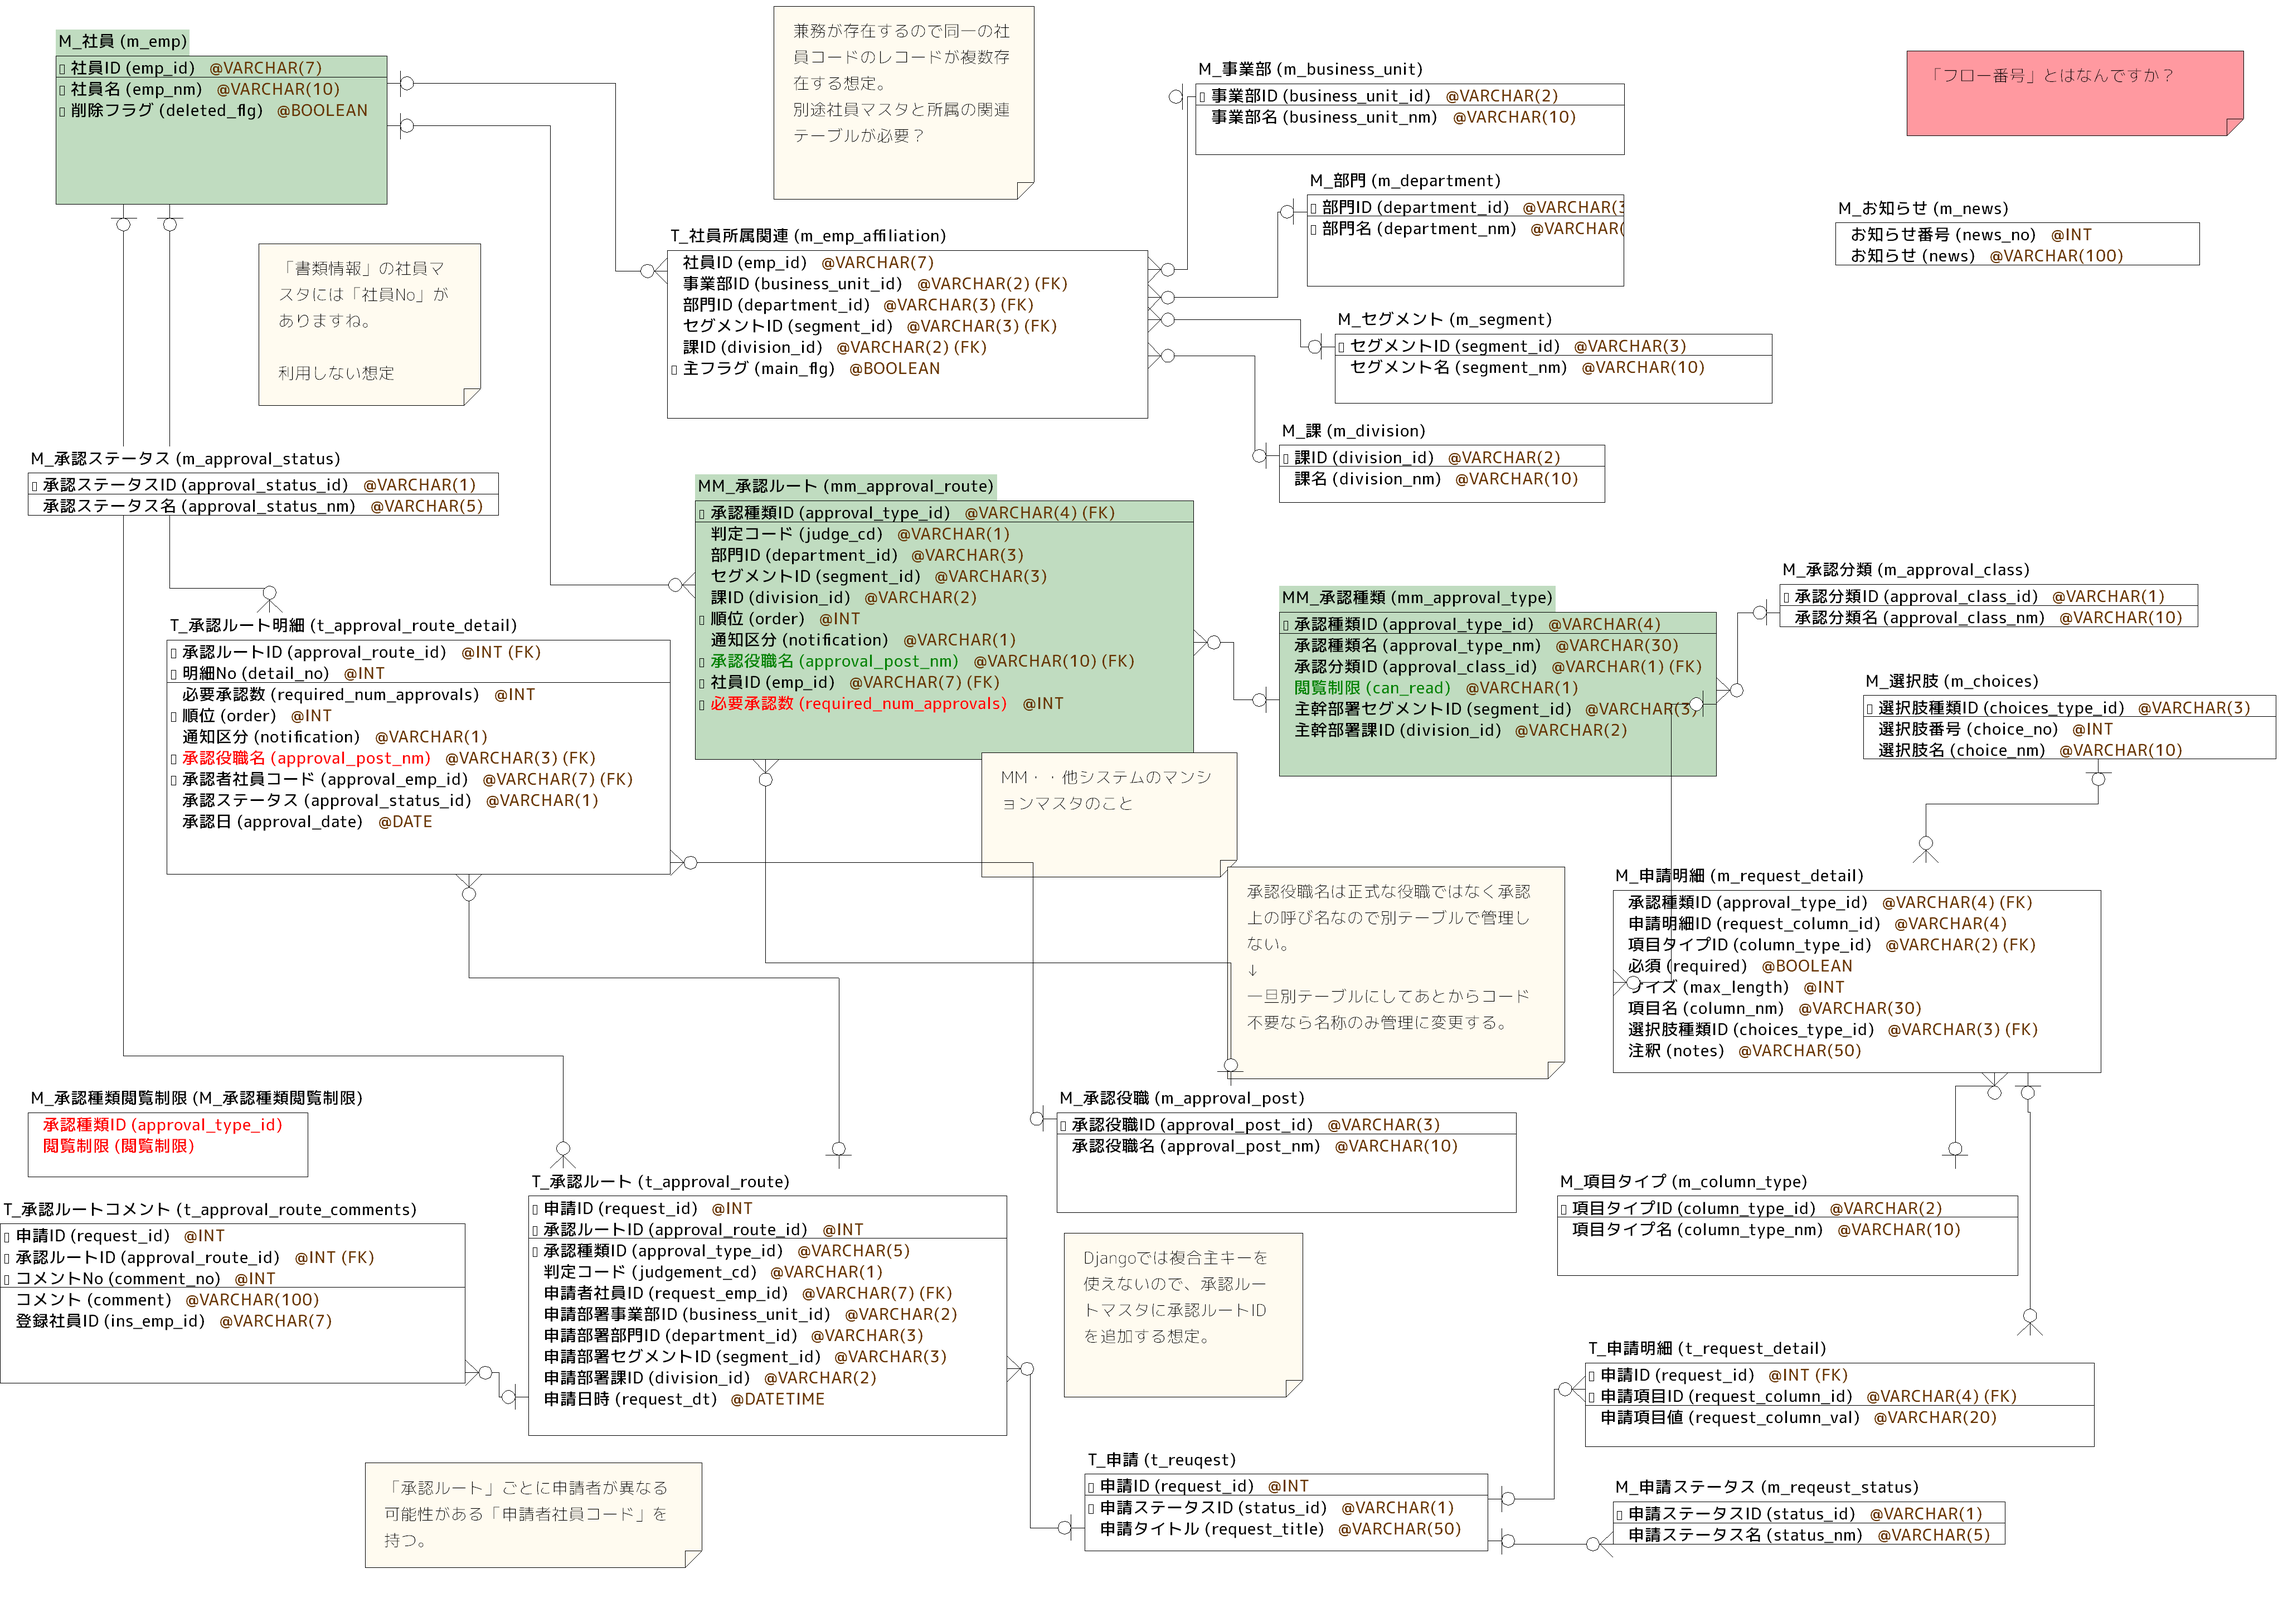
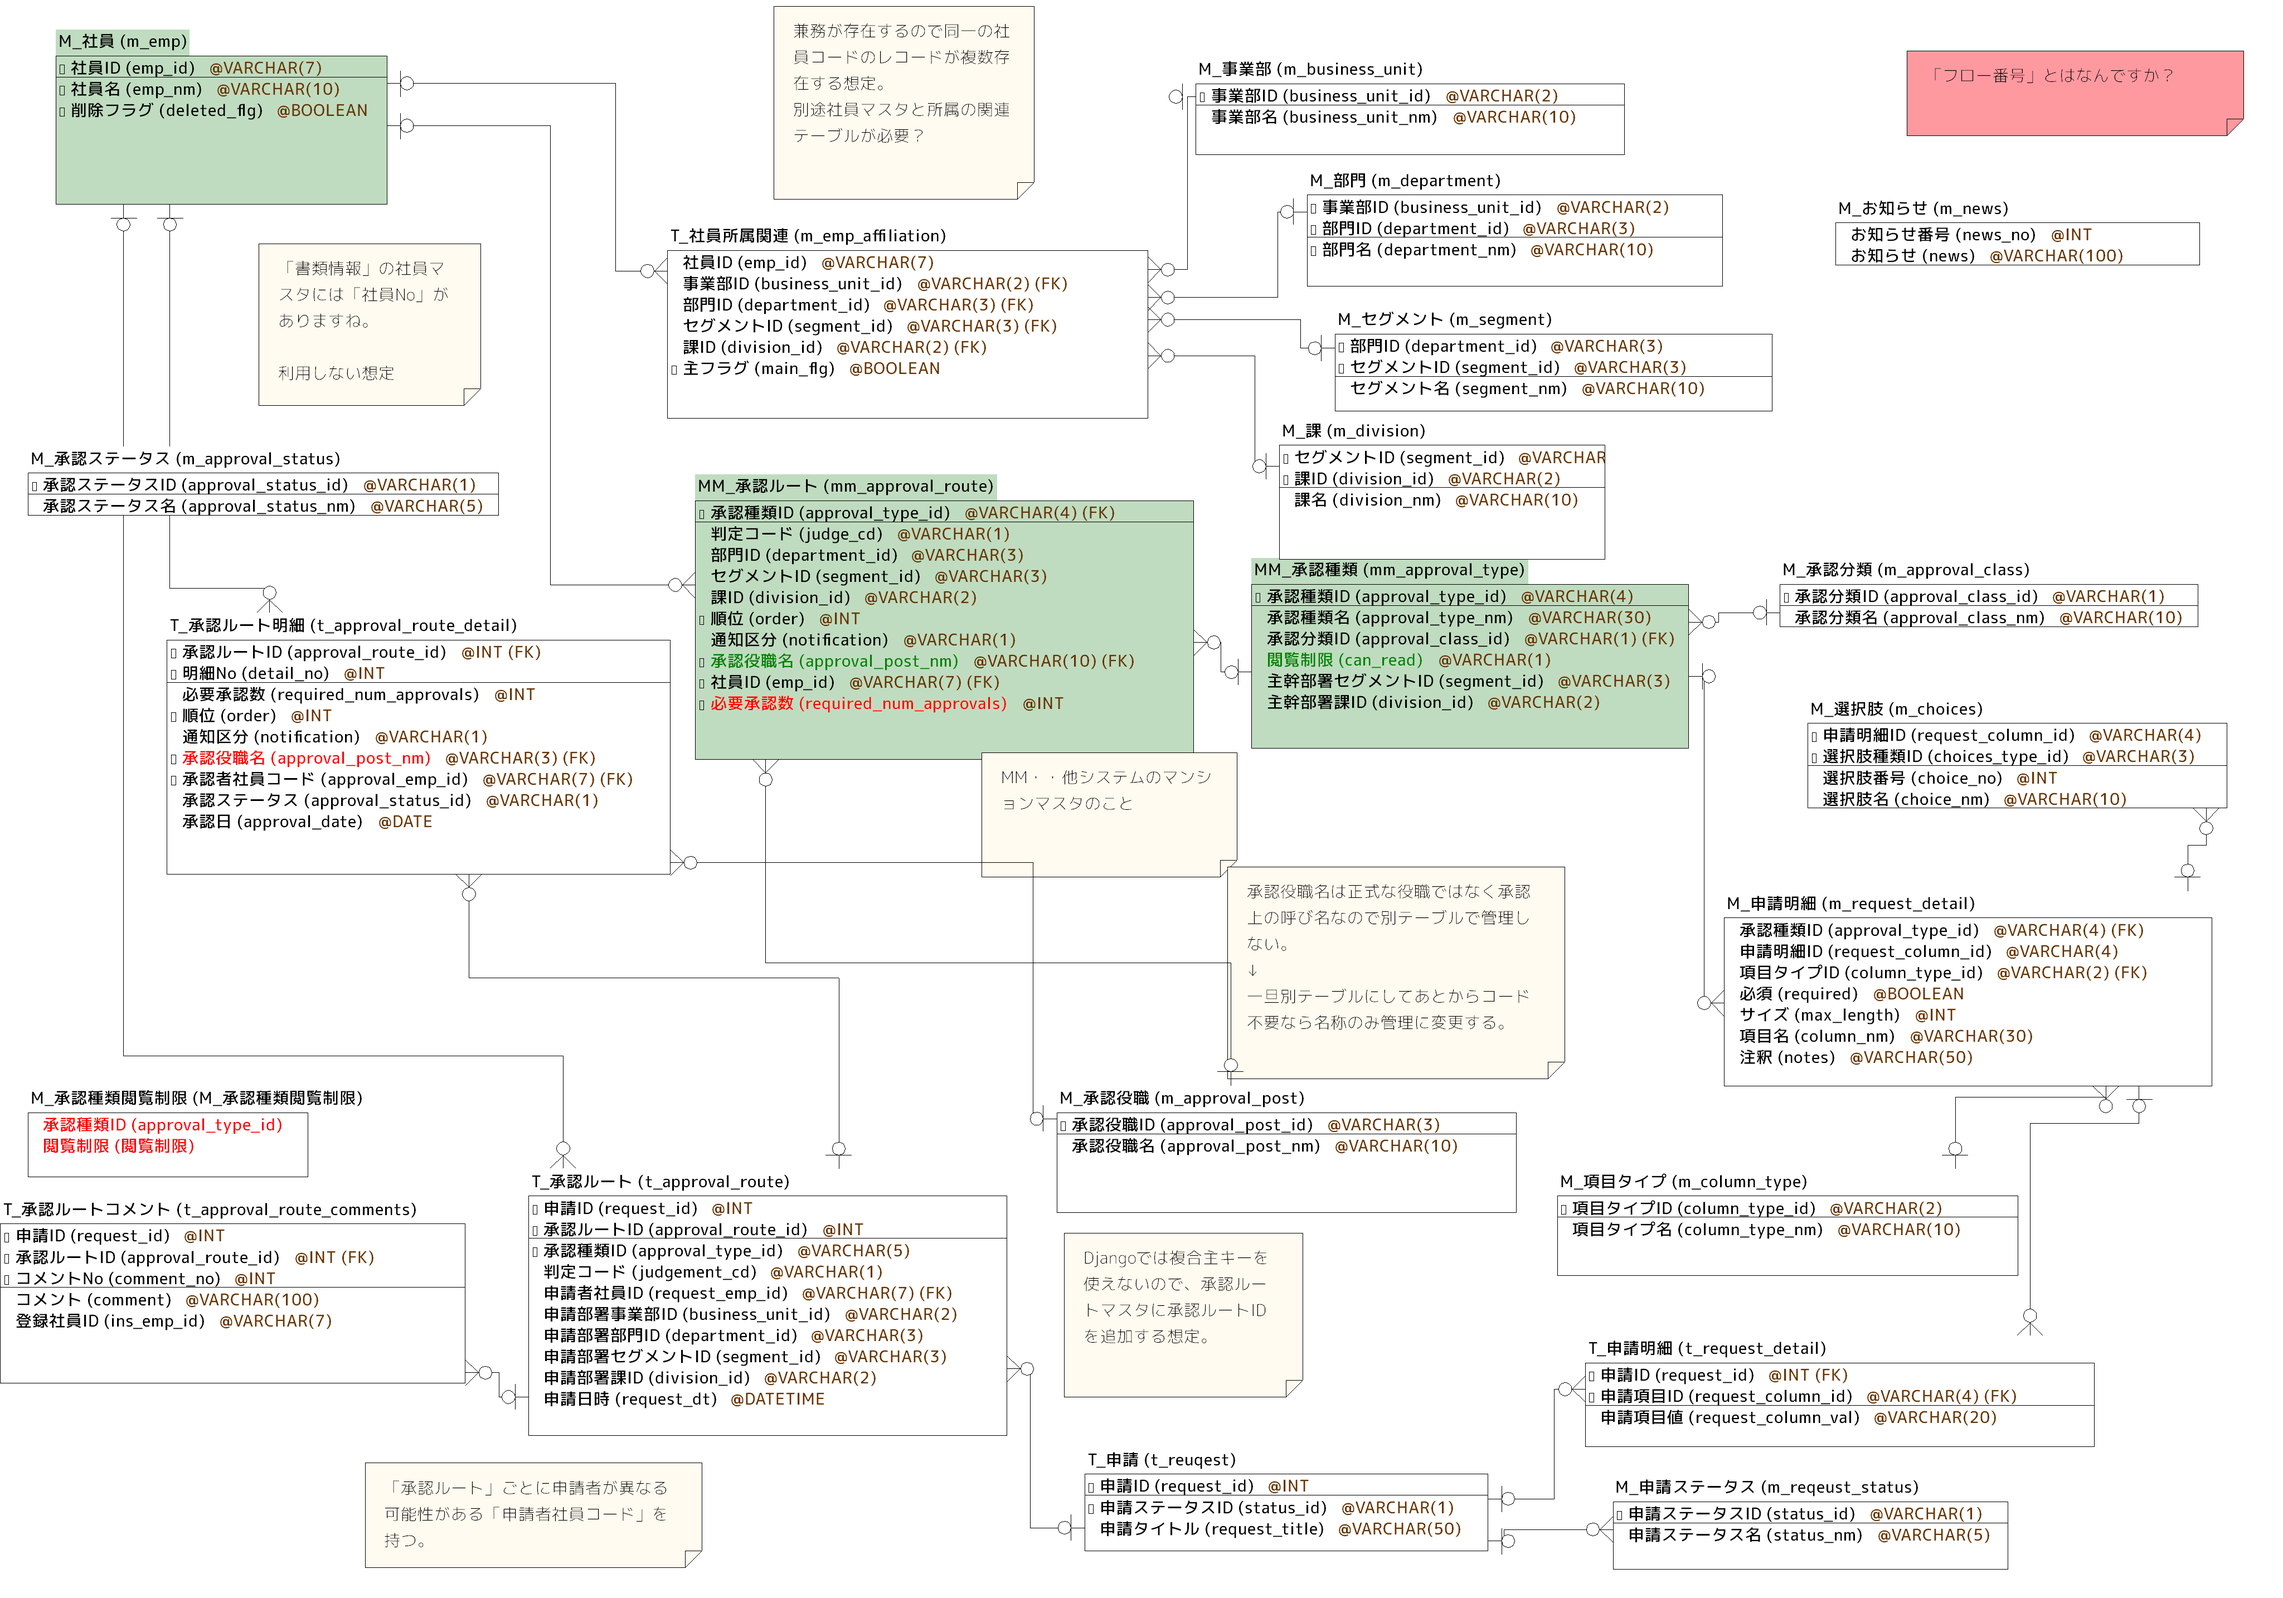
部署関連テーブルの修正

diff --git a/docs/設計資料/02_テーブル/entity_list/entities/m_choices.html b/docs/設計資料/02_テーブル/entity_list/entities/m_choices.html
@@ -23,7 +23,7 @@
 			<th>サブシステム名</th>
 			<td>&nbsp;</td>
 			<th>作成日</th>
-			<td>2021/10/26&nbsp;</td>
+			<td>2021/10/27&nbsp;</td>
 		</tr>
 		<tr>
 			<th>スキーマ名</th>
@@ -72,6 +72,15 @@
 		</tr>
 		<tr>
 			<td style="text-align:right;">1</td>
+			<td>申請明細ID</td>
+			<td>request_column_id</td>
+			<td>@VARCHAR(4)</td>
+			<td>Yes (PK)</td>
+			<td></td>
+			<td></td>
+		</tr>
+		<tr>
+			<td style="text-align:right;">2</td>
 			<td>選択肢種類ID</td>
 			<td>choices_type_id</td>
 			<td>@VARCHAR(3)</td>
@@ -80,7 +89,7 @@
 			<td></td>
 		</tr>
 		<tr>
-			<td style="text-align:right;">2</td>
+			<td style="text-align:right;">3</td>
 			<td>選択肢番号</td>
 			<td>choice_no</td>
 			<td>@INT</td>
@@ -89,7 +98,7 @@
 			<td></td>
 		</tr>
 		<tr>
-			<td style="text-align:right;">3</td>
+			<td style="text-align:right;">4</td>
 			<td>選択肢名</td>
 			<td>choice_nm</td>
 			<td>@VARCHAR(10)</td>
@@ -136,6 +145,13 @@
 			<th>参照先</th>
 			<th>参照先カラムリスト</th>
 		</tr>
+		<tr>
+			<td style="text-align:right;">1</td>
+			<td></td>
+			<td></td>
+			<td>m_request_detail</td>
+			<td></td>
+		</tr>
 	</table>
 
 <br>
@@ -155,13 +171,6 @@
 			<th>カラムリスト</th>
 			<th>参照元</th>
 			<th>参照元カラムリスト</th>
-		</tr>
-		<tr>
-			<td style="text-align:right;">1</td>
-			<td></td>
-			<td>choices_type_id</td>
-			<td>m_request_detail</td>
-			<td>choices_type_id</td>
 		</tr>
 	</table>
 

diff --git a/docs/設計資料/02_テーブル/entity_list/entities/m_request_detail.html b/docs/設計資料/02_テーブル/entity_list/entities/m_request_detail.html
@@ -23,7 +23,7 @@
 			<th>サブシステム名</th>
 			<td>&nbsp;</td>
 			<th>作成日</th>
-			<td>2021/10/26&nbsp;</td>
+			<td>2021/10/27&nbsp;</td>
 		</tr>
 		<tr>
 			<th>スキーマ名</th>
@@ -126,15 +126,6 @@
 		</tr>
 		<tr>
 			<td style="text-align:right;">7</td>
-			<td>選択肢種類ID</td>
-			<td>choices_type_id</td>
-			<td>@VARCHAR(3)</td>
-			<td>&nbsp;</td>
-			<td></td>
-			<td></td>
-		</tr>
-		<tr>
-			<td style="text-align:right;">8</td>
 			<td>注釈</td>
 			<td>notes</td>
 			<td>@VARCHAR(50)</td>
@@ -184,19 +175,12 @@
 		<tr>
 			<td style="text-align:right;">1</td>
 			<td></td>
-			<td>choices_type_id</td>
-			<td>m_choices</td>
-			<td>choices_type_id</td>
-		</tr>
-		<tr>
-			<td style="text-align:right;">2</td>
-			<td></td>
 			<td>approval_type_id</td>
 			<td>mm_approval_type</td>
 			<td>approval_type_id</td>
 		</tr>
 		<tr>
-			<td style="text-align:right;">3</td>
+			<td style="text-align:right;">2</td>
 			<td></td>
 			<td>column_type_id</td>
 			<td>m_column_type</td>
@@ -224,6 +208,13 @@
 		</tr>
 		<tr>
 			<td style="text-align:right;">1</td>
+			<td></td>
+			<td></td>
+			<td>m_choices</td>
+			<td></td>
+		</tr>
+		<tr>
+			<td style="text-align:right;">2</td>
 			<td></td>
 			<td>request_column_id</td>
 			<td>t_request_detail</td>

diff --git a/docs/設計資料/02_テーブル/entity_list/entities/m_segment.html b/docs/設計資料/02_テーブル/entity_list/entities/m_segment.html
@@ -23,7 +23,7 @@
 			<th>サブシステム名</th>
 			<td>&nbsp;</td>
 			<th>作成日</th>
-			<td>2021/10/26&nbsp;</td>
+			<td>2021/10/27&nbsp;</td>
 		</tr>
 		<tr>
 			<th>スキーマ名</th>
@@ -72,6 +72,15 @@
 		</tr>
 		<tr>
 			<td style="text-align:right;">1</td>
+			<td>部門ID</td>
+			<td>department_id</td>
+			<td>@VARCHAR(3)</td>
+			<td>Yes (PK)</td>
+			<td></td>
+			<td></td>
+		</tr>
+		<tr>
+			<td style="text-align:right;">2</td>
 			<td>セグメントID</td>
 			<td>segment_id</td>
 			<td>@VARCHAR(3)</td>
@@ -80,7 +89,7 @@
 			<td></td>
 		</tr>
 		<tr>
-			<td style="text-align:right;">2</td>
+			<td style="text-align:right;">3</td>
 			<td>セグメント名</td>
 			<td>segment_nm</td>
 			<td>@VARCHAR(10)</td>

diff --git a/docs/設計資料/02_テーブル/entity_list/entities/m_department.html b/docs/設計資料/02_テーブル/entity_list/entities/m_department.html
@@ -23,7 +23,7 @@
 			<th>サブシステム名</th>
 			<td>&nbsp;</td>
 			<th>作成日</th>
-			<td>2021/10/26&nbsp;</td>
+			<td>2021/10/27&nbsp;</td>
 		</tr>
 		<tr>
 			<th>スキーマ名</th>
@@ -72,6 +72,15 @@
 		</tr>
 		<tr>
 			<td style="text-align:right;">1</td>
+			<td>事業部ID</td>
+			<td>business_unit_id</td>
+			<td>@VARCHAR(2)</td>
+			<td>Yes (PK)</td>
+			<td></td>
+			<td></td>
+		</tr>
+		<tr>
+			<td style="text-align:right;">2</td>
 			<td>部門ID</td>
 			<td>department_id</td>
 			<td>@VARCHAR(3)</td>
@@ -80,7 +89,7 @@
 			<td></td>
 		</tr>
 		<tr>
-			<td style="text-align:right;">2</td>
+			<td style="text-align:right;">3</td>
 			<td>部門名</td>
 			<td>department_nm</td>
 			<td>@VARCHAR(10)</td>

diff --git a/docs/設計資料/02_テーブル/entity_list/entities/m_division.html b/docs/設計資料/02_テーブル/entity_list/entities/m_division.html
@@ -23,7 +23,7 @@
 			<th>サブシステム名</th>
 			<td>&nbsp;</td>
 			<th>作成日</th>
-			<td>2021/10/26&nbsp;</td>
+			<td>2021/10/27&nbsp;</td>
 		</tr>
 		<tr>
 			<th>スキーマ名</th>
@@ -72,6 +72,15 @@
 		</tr>
 		<tr>
 			<td style="text-align:right;">1</td>
+			<td>セグメントID</td>
+			<td>segment_id</td>
+			<td>@VARCHAR(3)</td>
+			<td>Yes (PK)</td>
+			<td></td>
+			<td></td>
+		</tr>
+		<tr>
+			<td style="text-align:right;">2</td>
 			<td>課ID</td>
 			<td>division_id</td>
 			<td>@VARCHAR(2)</td>
@@ -80,7 +89,7 @@
 			<td></td>
 		</tr>
 		<tr>
-			<td style="text-align:right;">2</td>
+			<td style="text-align:right;">3</td>
 			<td>課名</td>
 			<td>division_nm</td>
 			<td>@VARCHAR(10)</td>

diff --git a/docs/設計資料/02_テーブル/entity_list/entities/M_承認種類閲覧制限.html b/docs/設計資料/02_テーブル/entity_list/entities/M_承認種類閲覧制限.html
@@ -23,7 +23,7 @@
 			<th>サブシステム名</th>
 			<td>&nbsp;</td>
 			<th>作成日</th>
-			<td>2021/10/26&nbsp;</td>
+			<td>2021/10/27&nbsp;</td>
 		</tr>
 		<tr>
 			<th>スキーマ名</th>

diff --git a/docs/設計資料/02_テーブル/entity_list/entities/m_approval_class.html b/docs/設計資料/02_テーブル/entity_list/entities/m_approval_class.html
@@ -23,7 +23,7 @@
 			<th>サブシステム名</th>
 			<td>&nbsp;</td>
 			<th>作成日</th>
-			<td>2021/10/26&nbsp;</td>
+			<td>2021/10/27&nbsp;</td>
 		</tr>
 		<tr>
 			<th>スキーマ名</th>

diff --git a/docs/設計資料/02_テーブル/entity_list/entities/m_approval_post.html b/docs/設計資料/02_テーブル/entity_list/entities/m_approval_post.html
@@ -23,7 +23,7 @@
 			<th>サブシステム名</th>
 			<td>&nbsp;</td>
 			<th>作成日</th>
-			<td>2021/10/26&nbsp;</td>
+			<td>2021/10/27&nbsp;</td>
 		</tr>
 		<tr>
 			<th>スキーマ名</th>

diff --git a/docs/設計資料/02_テーブル/entity_list/entities/m_approval_status.html b/docs/設計資料/02_テーブル/entity_list/entities/m_approval_status.html
@@ -23,7 +23,7 @@
 			<th>サブシステム名</th>
 			<td>&nbsp;</td>
 			<th>作成日</th>
-			<td>2021/10/26&nbsp;</td>
+			<td>2021/10/27&nbsp;</td>
 		</tr>
 		<tr>
 			<th>スキーマ名</th>

diff --git a/docs/設計資料/02_テーブル/entity_list/entities/m_business_unit.html b/docs/設計資料/02_テーブル/entity_list/entities/m_business_unit.html
@@ -23,7 +23,7 @@
 			<th>サブシステム名</th>
 			<td>&nbsp;</td>
 			<th>作成日</th>
-			<td>2021/10/26&nbsp;</td>
+			<td>2021/10/27&nbsp;</td>
 		</tr>
 		<tr>
 			<th>スキーマ名</th>

diff --git a/docs/設計資料/02_テーブル/entity_list/entities/m_column_type.html b/docs/設計資料/02_テーブル/entity_list/entities/m_column_type.html
@@ -23,7 +23,7 @@
 			<th>サブシステム名</th>
 			<td>&nbsp;</td>
 			<th>作成日</th>
-			<td>2021/10/26&nbsp;</td>
+			<td>2021/10/27&nbsp;</td>
 		</tr>
 		<tr>
 			<th>スキーマ名</th>

diff --git a/docs/設計資料/02_テーブル/entity_list/entities/m_emp.html b/docs/設計資料/02_テーブル/entity_list/entities/m_emp.html
@@ -23,7 +23,7 @@
 			<th>サブシステム名</th>
 			<td>&nbsp;</td>
 			<th>作成日</th>
-			<td>2021/10/26&nbsp;</td>
+			<td>2021/10/27&nbsp;</td>
 		</tr>
 		<tr>
 			<th>スキーマ名</th>
